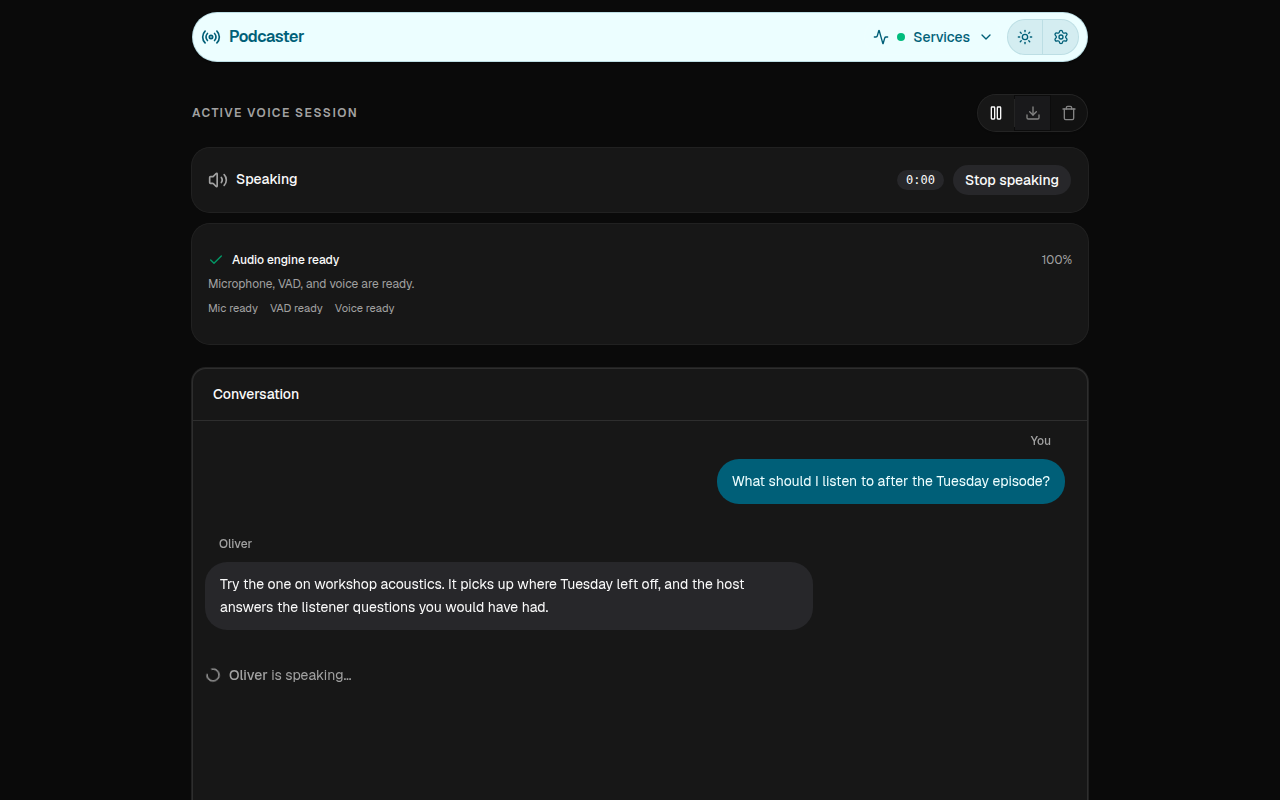
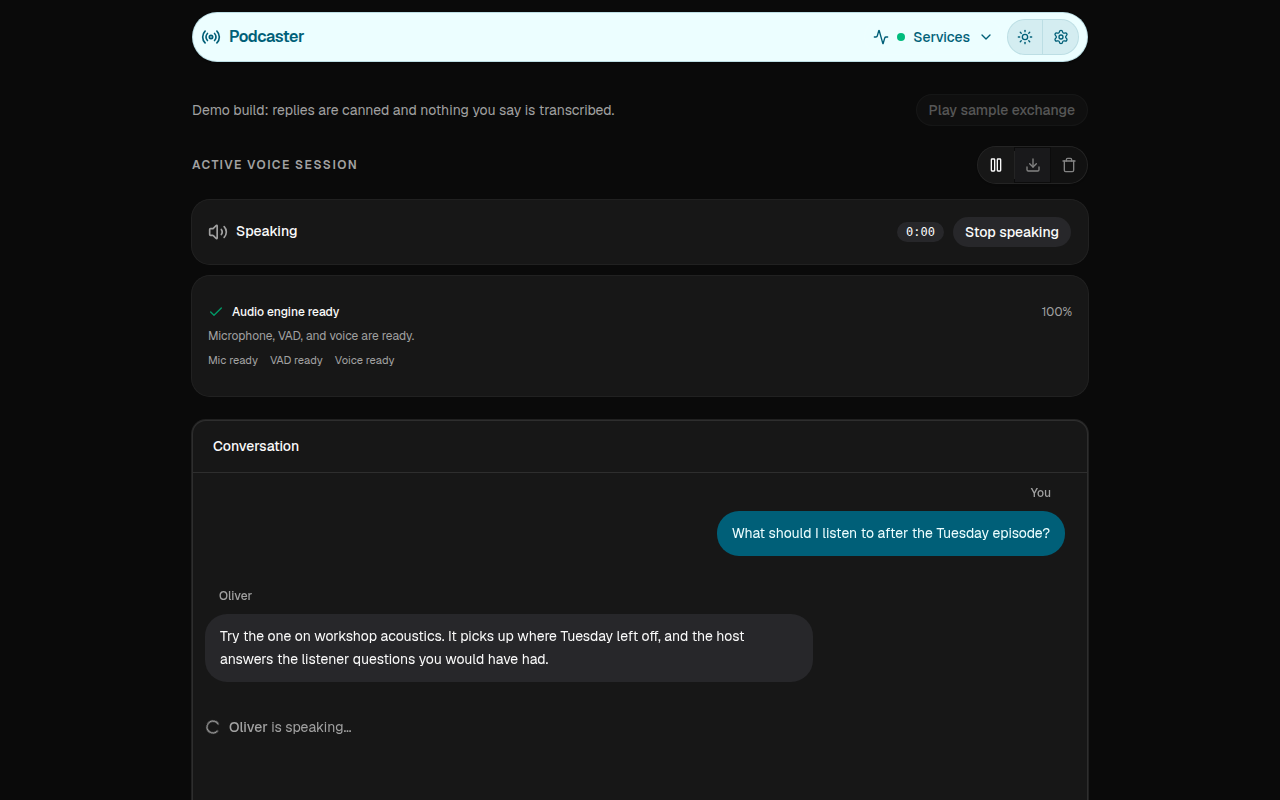
feat: hosted demo on Vercel with a sample exchange
The demo build gets a "Play sample exchange" button that runs one canned
turn through the page's test API. The recording clicks the same button.
Adds a static Vercel config, a catch-all API stub for the two calls the
demo still makes, and a .vercelignore that keeps models and virtualenvs
out of the upload.

diff --git a/apps/web/src/demo/sample-exchange.ts b/apps/web/src/demo/sample-exchange.ts
@@ -1,0 +1,35 @@
+import type { LiveRuntimeTestApi } from '../session/live-runtime';
+
+export const sampleQuestion = 'What should I listen to after the Tuesday episode?';
+export const sampleAnswer =
+  'Try the one on workshop acoustics. It picks up where Tuesday left off, and the host answers the listener questions you would have had.';
+
+const sampleChunks = 12;
+const chunkSamples = 4800;
+const pause = (ms: number) => new Promise((resolve) => setTimeout(resolve, ms));
+
+// One canned turn in the order the host sends it: the question is heard, the reply is written, spoken and finished.
+// Only the fake-services build has the test API, so the demo can run without speech models or a Pi account.
+export async function playSampleExchange(api: LiveRuntimeTestApi): Promise<void> {
+  const turnId = `sample-${Date.now()}`;
+  const responseId = `${turnId}-reply`;
+  const playbackId = `${turnId}-playback`;
+  const stream = { streamId: `${turnId}-stream`, utteranceId: turnId };
+  await api.emit('vad.speech_start', { ...stream, captureStartSequence: 0 });
+  await api.partial('What should I listen');
+  await pause(700);
+  await api.partial(sampleQuestion);
+  await pause(700);
+  await api.emit('vad.speech_end', { ...stream, captureStartSequence: 0, captureEndSequence: 1 });
+  await api.emit('transcript.final', { turnId, text: sampleQuestion, endpointComplete: true });
+  await api.emit('reasoning.started', { turnId, responseId, posture: 'question' });
+  await pause(600);
+  await api.emit('reasoning.final', { turnId, responseId, posture: 'question', text: sampleAnswer });
+  await api.emit('tts.started', { responseId, playbackId, sampleRate: 24000 });
+  // Twelve 200 ms chunks at 24 kHz, sent a little apart, so the reply plays for about 2.4 s before playback ends by itself.
+  for (let chunk = 0; chunk < sampleChunks; chunk += 1) {
+    await api.audio(playbackId, chunk * chunkSamples, chunkSamples);
+    await pause(200);
+  }
+  await api.emit('tts.ended', { responseId, playbackId, generatedSamples: sampleChunks * chunkSamples });
+}

diff --git a/apps/web/src/demo/SampleExchangeButton.tsx b/apps/web/src/demo/SampleExchangeButton.tsx
@@ -1,0 +1,30 @@
+import { useState } from 'react';
+import { Button } from '../components/ui/button';
+import { playSampleExchange } from './sample-exchange';
+
+// Demo build only (see App.tsx): plays one canned exchange, because nothing the visitor says is heard.
+export function SampleExchangeButton() {
+  const [playing, setPlaying] = useState(false);
+  return (
+    <div className="mx-auto mt-5 flex w-[min(56rem,calc(100%_-_2rem))] flex-wrap items-center justify-between gap-2 text-sm text-muted-foreground">
+      <span>Demo build: replies are canned and nothing you say is transcribed.</span>
+      <Button
+        variant="outline"
+        size="sm"
+        disabled={playing}
+        onClick={async () => {
+          const api = window.__podcasterTest;
+          if (!api) return;
+          setPlaying(true);
+          try {
+            await playSampleExchange(api);
+          } finally {
+            setPlaying(false);
+          }
+        }}
+      >
+        Play sample exchange
+      </Button>
+    </div>
+  );
+}

diff --git a/apps/web/src/App.tsx b/apps/web/src/App.tsx
@@ -38,6 +38,7 @@ import { Spinner } from './components/ui/spinner';
 import { persistTheme, readTheme } from './theme';
 import type { ReadinessSnapshot, ServiceStatuses } from './services/service-status';
 import { useServiceStatuses } from './hooks/useServiceStatuses';
+import { SampleExchangeButton } from './demo/SampleExchangeButton';
 
 const fakeServices = import.meta.env.MODE === 'fake-services';
 
@@ -1012,6 +1013,7 @@ function SessionRoute(props: SessionRouteProps) {
   if (props.liveSessionId && props.liveSessionId === routeSessionId) {
     return (
       <Suspense fallback={<RouteLoading label="Loading session…" />}>
+        {fakeServices ? <SampleExchangeButton /> : null}
         <SessionScreen
           state={props.view ?? initialSessionState}
           sessionId={props.liveSessionId}

diff --git a/api/[...path].js b/api/[...path].js
@@ -1,0 +1,7 @@
+// The hosted demo has no host process. Voice enrollment and voice preview are the only API calls the demo build still
+// makes, so they answer with a clear message instead of a 404. Readiness, bootstrap and stop are skipped in that build.
+module.exports = (req, res) => {
+  res.statusCode = 501;
+  res.setHeader('content-type', 'application/json');
+  res.end(JSON.stringify({ error: 'Not available in the hosted demo. Run npm run demo locally for the same screens.' }));
+};

diff --git a/README.md b/README.md
@@ -104,6 +104,8 @@ are not spoken by a voice model. The demo uses the same fake-services build as t
 Pieces the demo needs: `corepack pnpm install`, and `uv sync --frozen` for the audio sidecar, which the host still
 starts. Speech models are not needed.
 
+A hosted copy of the same demo runs at https://podcaster-lac-psi.vercel.app.
+
 The loop at the top comes from `npm run media:capture`, which records the demo with `@soleone/showcase/capture`.
 
 ## Validation
